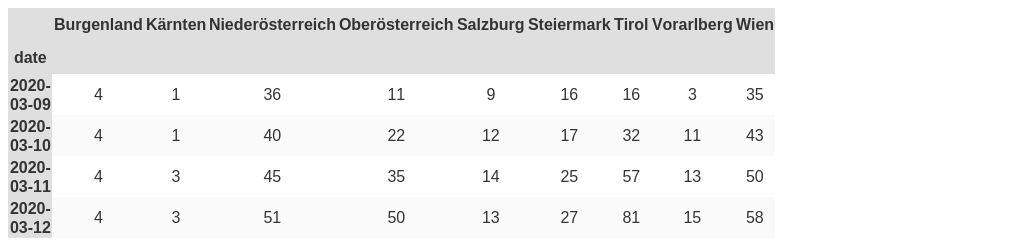
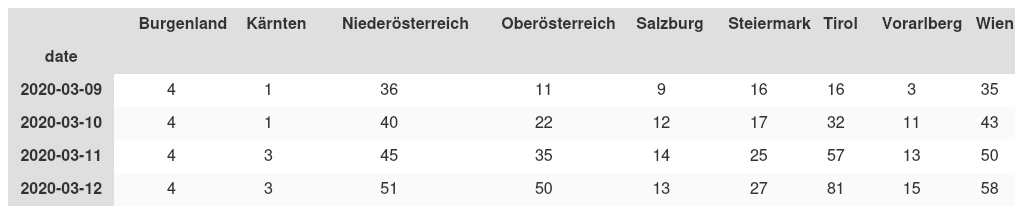
Make graphs and images easier to read

diff --git a/README.md b/README.md
@@ -1,6 +1,6 @@
 # 🇦🇹 Österreich Austria - COVID-19 Cases
 
-![Automatic update](https://github.com/Ramblurr/Austria-COVID-19/workflows/Automatic%20update/badge.svg)
+[![Automatic update](https://github.com/Ramblurr/Austria-COVID-19/workflows/Automatic%20update/badge.svg)](https://github.com/Ramblurr/Austria-COVID-19/actions?query=workflow%3A%22Automatic+update%22)
 
 Data concerning confirmed cases and recoveries of the novel coronavirus that causes COVID-19.
 
@@ -11,7 +11,12 @@ Data concerning confirmed cases and recoveries of the novel coronavirus that cau
 
 ## Current Data
 
-Last updated at: ![Last updated at](./images/updated-date.svg)
+**Last updated at:** ![Last updated at](./images/updated-date.svg)
+
+#### Data in CSV Format:
+
+* [cases.csv](./data/cases.csv)
+* [recovered.csv](./data/recovered.csv)
 
 ### Total Confirmed Cases
 
@@ -21,13 +26,13 @@ Last updated at: ![Last updated at](./images/updated-date.svg)
 
 ![total recovered](./images/total-recovered.svg)
 
-### Total Tests
-
-![total tests](./images/total-tests.svg)
-
 ### Total Deaths
 
 ![total deaths](./images/total-deaths.svg)
+
+### Total Tests
+
+![total tests](./images/total-tests.svg)
 
 ### Confirmed cases by Bundesland
 
